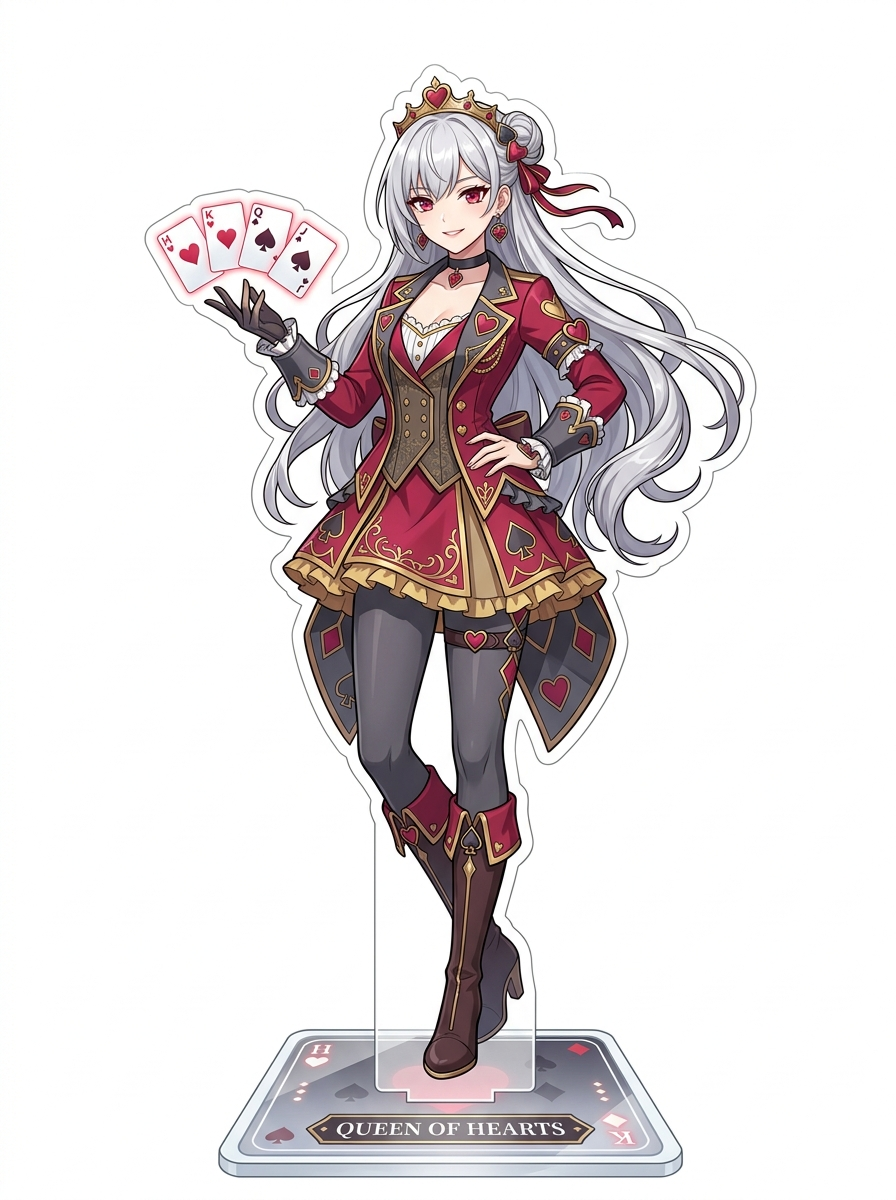
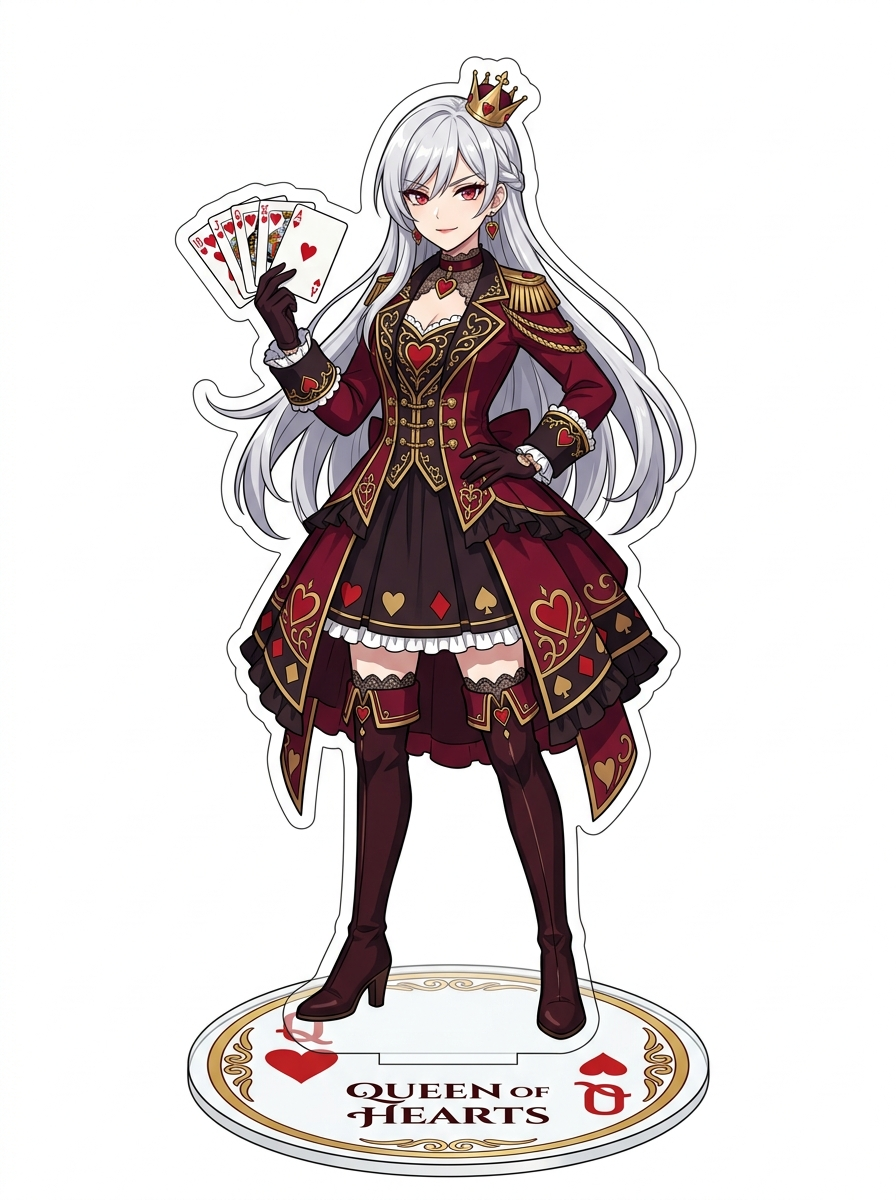
v07030110 Asset: Replace lobby character standee with corrected Queen of Hearts anthropomorphism (hands showing Royal Flush 10-J-Q-K-A of Hearts, base showing Q of Hearts)

Changed region(s): [[0.1562, 0.0617, 0.8438, 0.9867]]

diff --git a/src/App.tsx b/src/App.tsx
@@ -1465,7 +1465,7 @@ function App() {
       <header className={`app-header ${(phase === 'playing' || phase === 'scoring') ? 'battle-mode' : ''}`}>
         <div className="header-title-row">
           <h1>XY Poker</h1>
-          {showVersion && <span className="version">v07030107</span>}
+          {showVersion && <span className="version">v07030110</span>}
         </div>
 
         <button